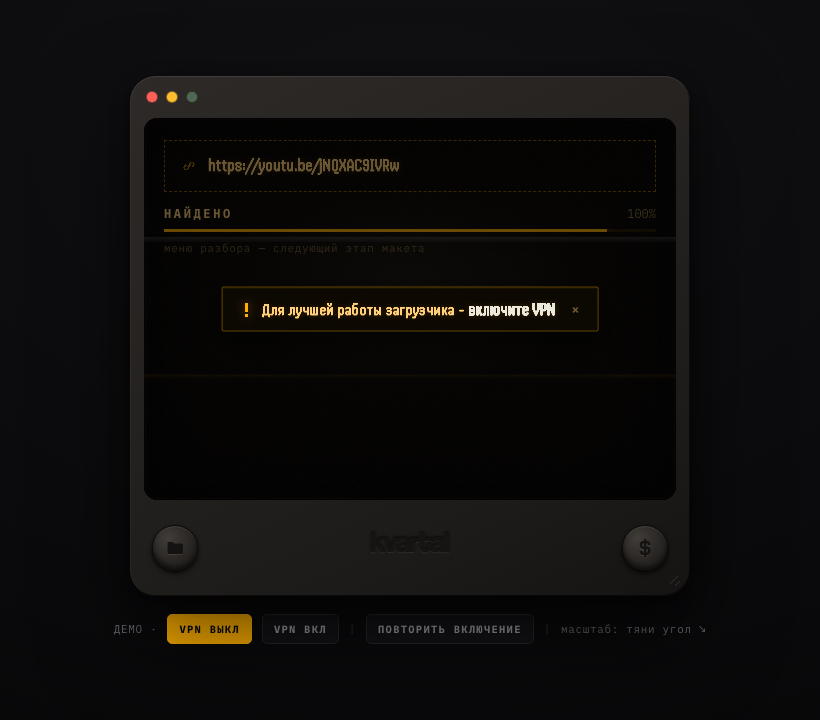
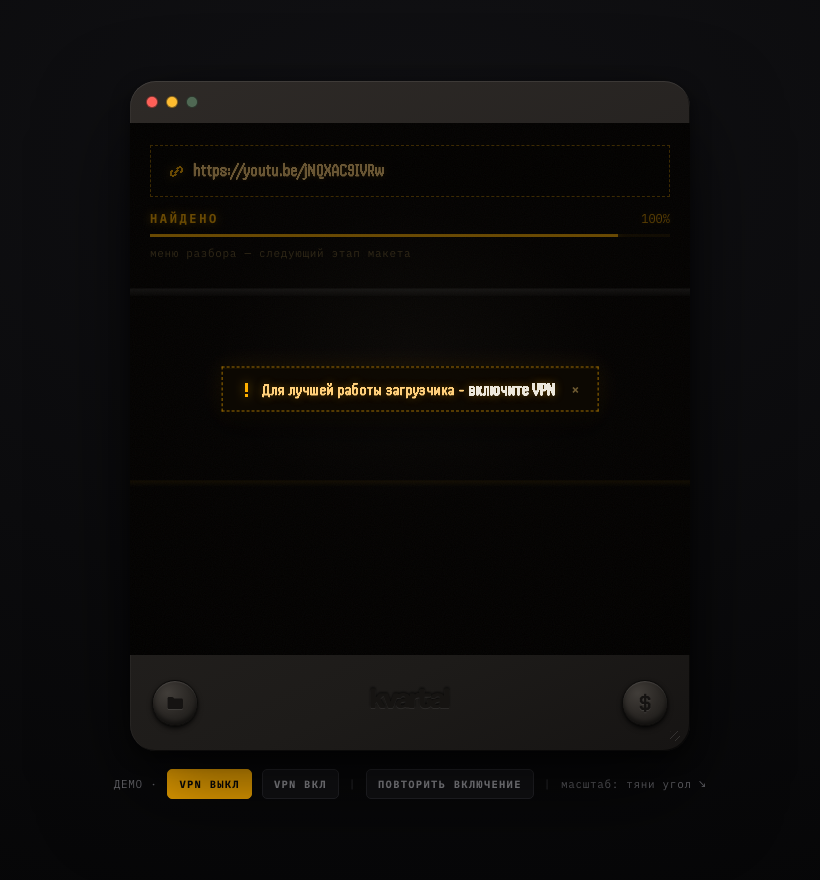
design: окно выше (560×670), монолит без впалой плашки, свечение оранжевого везде
- высота +150px, пропорции ближе к ТВ
- стекло без отступов и внутренних теней-колец — монолитная передняя панель
- логотип на одной линии с кнопками
- весь акцент — яркий светящийся #FFB000: тексты, рамки, иконки, проценты
- все прямоугольные рамки пунктиром (поиск, VPN, тост)
- иконка ссылки крупнее, текст подвинут ближе

diff --git a/design/main-screen.html b/design/main-screen.html
@@ -39,7 +39,7 @@ body{
    ================================================================ */
 .tv{
   position:relative;
-  width:560px;height:520px;flex:none;
+  width:560px;height:670px;flex:none;
   transform:scale(var(--s,1));transform-origin:center;
   border-radius:26px;
   background:linear-gradient(155deg,#2E2A27 0%,var(--plastic) 34%,#1D1B19 78%,#161413 100%);
@@ -67,14 +67,8 @@ body{
 .light:not(.g):active{filter:brightness(.8)}
 
 .glass{
-  position:relative;flex:1;margin:0 14px;border-radius:14px;overflow:hidden;
+  position:relative;flex:1;overflow:hidden;
   background:radial-gradient(ellipse 120% 95% at 50% 42%,#0C0805 0%,#070402 52%,#030201 100%);
-  box-shadow:
-    inset 0 0 0 1px #000,
-    inset 0 0 0 2px rgba(70,110,255,.045),
-    inset 0 0 0 3px rgba(255,60,40,.035),
-    inset 0 3px 16px rgba(0,0,0,.9),
-    inset 0 0 90px 26px rgba(0,0,0,.72);
 }
 /* рыбий глаз: выпуклое стекло — блик в центре, края тонут */
 .glass::before{
@@ -116,15 +110,16 @@ body{
 /* ---- поисковая строка: квадратная линия, у самого верха ---- */
 .search-wrap{position:absolute;left:20px;right:20px;top:22px;z-index:4}
 .search{
-  position:relative;display:flex;align-items:center;gap:11px;min-height:52px;
+  position:relative;display:flex;align-items:center;gap:7px;min-height:52px;padding-left:13px;
   background:rgba(5,3,0,.74);
-  border:1px dashed rgba(255,176,0,.5);
+  border:1px dashed rgba(255,176,0,.55);
   border-radius:0;padding:12px 16px;cursor:text;
   transition:border-color .25s ease, box-shadow .25s ease;
 }
-.search.focus{border-color:rgba(255,176,0,.62);box-shadow:0 0 0 1px rgba(255,176,0,.14),0 0 22px rgba(255,176,0,.10)}
-.search .ic{flex:none;display:flex;color:rgba(255,176,0,.55)}
-.search.focus .ic{color:var(--amber)}
+.search.focus{border-color:rgba(255,176,0,.85);box-shadow:0 0 22px rgba(255,176,0,.16)}
+.search .ic{flex:none;display:flex;color:var(--amber);
+  filter:drop-shadow(0 0 5px rgba(255,176,0,.4))}
+.search.focus .ic{filter:drop-shadow(0 0 8px rgba(255,176,0,.65))}
 .search input{
   flex:1;background:none;border:none;outline:none;padding:0;
   font:500 18px/1.2 'Handjet',monospace;letter-spacing:.02em;
@@ -132,22 +127,24 @@ body{
   text-shadow:0 0 6px rgba(255,176,0,.28);
 }
 .search .ph{
-  position:absolute;left:48px;right:14px;top:50%;transform:translateY(-50%);
+  position:absolute;left:44px;right:14px;top:50%;transform:translateY(-50%);
   font:500 15px/1.15 'Handjet',monospace;letter-spacing:.02em;
-  color:rgba(255,176,0,.6);pointer-events:none;cursor:text;white-space:nowrap;overflow:hidden;
-  text-overflow:ellipsis;text-shadow:0 0 6px rgba(255,176,0,.16);
+  color:var(--amber);pointer-events:none;cursor:text;white-space:nowrap;overflow:hidden;
+  text-overflow:ellipsis;text-shadow:0 0 8px rgba(255,176,0,.35);
 }
 .search .ph.off{display:none}
 
 /* ---- состояния под строкой: ищу / найдено ---- */
 .state{margin-top:14px;min-height:46px;font-family:'IBM Plex Mono',monospace}
 .state .row1{display:flex;align-items:baseline;gap:10px;justify-content:space-between}
-.state .word{font-weight:700;font-size:12px;letter-spacing:.22em;color:var(--amber)}
-.state .pct{font-size:12px;color:var(--dimtxt);font-variant-numeric:tabular-nums}
+.state .word{font-weight:700;font-size:12px;letter-spacing:.22em;color:var(--amber);
+  text-shadow:0 0 8px rgba(255,176,0,.45)}
+.state .pct{font-size:12px;color:var(--amber);opacity:.85;font-variant-numeric:tabular-nums;
+  text-shadow:0 0 6px rgba(255,176,0,.3)}
 .scan{margin-top:8px;height:3px;background:rgba(255,176,0,.12);position:relative;overflow:hidden}
 .scan i{position:absolute;top:0;bottom:0;left:0;width:34%;background:var(--amber);
   box-shadow:0 0 10px rgba(255,176,0,.55)}
-.state.found .word{color:var(--soft)}
+.state.found .word{color:var(--amber);text-shadow:0 0 10px rgba(255,176,0,.55)}
 .state .note{margin-top:9px;font-size:11px;letter-spacing:.06em;color:#6E5A31}
 .hidden{display:none}
 
@@ -178,9 +175,9 @@ body{
   position:absolute;left:50%;top:50%;transform:translate(-50%,-50%) scale(.96);
   z-index:8;display:flex;align-items:center;gap:10px;white-space:nowrap;
   background:rgba(13,9,2,.94);
-  border:1px solid rgba(255,176,0,.36);
-  border-radius:2px;padding:13px 16px;
-  box-shadow:0 12px 30px rgba(0,0,0,.6), inset 0 1px 0 rgba(255,176,0,.10);
+  border:1px dashed rgba(255,176,0,.6);
+  border-radius:0;padding:13px 16px;
+  box-shadow:0 12px 30px rgba(0,0,0,.6), 0 0 26px rgba(255,176,0,.10), inset 0 1px 0 rgba(255,176,0,.10);
   opacity:0;pointer-events:none;
   transition:opacity .35s ease, transform .35s cubic-bezier(.2,.9,.25,1);
 }
@@ -190,7 +187,7 @@ body{
 .vpn .vic{flex:none;display:flex;color:var(--amber);
   filter:drop-shadow(0 0 5px rgba(255,176,0,.5))}
 .vpn .vt{font:500 17px/1 'Handjet',monospace;letter-spacing:.03em;color:var(--soft);
-  white-space:nowrap;text-shadow:0 0 6px rgba(255,176,0,.2)}
+  white-space:nowrap;text-shadow:0 0 8px rgba(255,176,0,.35)}
 .vpn .vt b{font-weight:700;color:var(--white)}
 .vpn .x{flex:none;margin-left:4px;background:none;border:none;color:#6E5A31;cursor:pointer;
   font:700 13px 'IBM Plex Mono',monospace;line-height:1;padding:2px}
@@ -227,7 +224,7 @@ body{
 a.plate{text-decoration:none}
 
 /* выдавленный логотип — размером с кнопки, при наведении загорается янтарным */
-a.logo{position:absolute;left:50%;top:50%;transform:translate(-50%,-52%);
+a.logo{position:absolute;left:50%;top:50%;transform:translate(-50%,-50%);
   text-decoration:none;display:block}
 .logo-deboss{height:40px;color:#161412;display:block;
   filter:drop-shadow(0 1px 0 rgba(255,255,255,.075)) drop-shadow(0 -1px 1px rgba(0,0,0,.7));
@@ -247,7 +244,7 @@ a.logo:hover .logo-deboss{color:var(--amber);
 .toast{
   position:absolute;left:50%;bottom:112px;transform:translateX(-50%) translateY(6px);
   z-index:7;font:400 11.5px/1 'IBM Plex Mono',monospace;letter-spacing:.04em;
-  color:var(--soft);background:rgba(5,3,0,.9);border:1px solid rgba(255,176,0,.3);
+  color:var(--soft);background:rgba(5,3,0,.9);border:1px dashed rgba(255,176,0,.5);
   border-radius:0;padding:9px 13px;opacity:0;pointer-events:none;
   transition:opacity .3s ease, transform .3s ease;white-space:nowrap}
 .toast.show{opacity:1;transform:translateX(-50%) translateY(0)}
@@ -295,7 +292,7 @@ a.logo:hover .logo-deboss{color:var(--amber);
       <div class="search-wrap">
         <div class="search" id="search">
           <span class="ic">
-            <svg width="16" height="16" viewBox="0 0 16 16" fill="none" stroke="currentColor" stroke-width="1.5" stroke-linejoin="miter" shape-rendering="crispEdges">
+            <svg width="19" height="19" viewBox="0 0 16 16" fill="none" stroke="currentColor" stroke-width="1.5" stroke-linejoin="miter" shape-rendering="crispEdges">
               <path d="M6.5 9.5l3-3"/>
               <path d="M5 7L3.5 8.5a2 2 0 002.8 2.8L8 9.7"/>
               <path d="M11 9l1.5-1.5a2 2 0 00-2.8-2.8L8 6.3"/>
